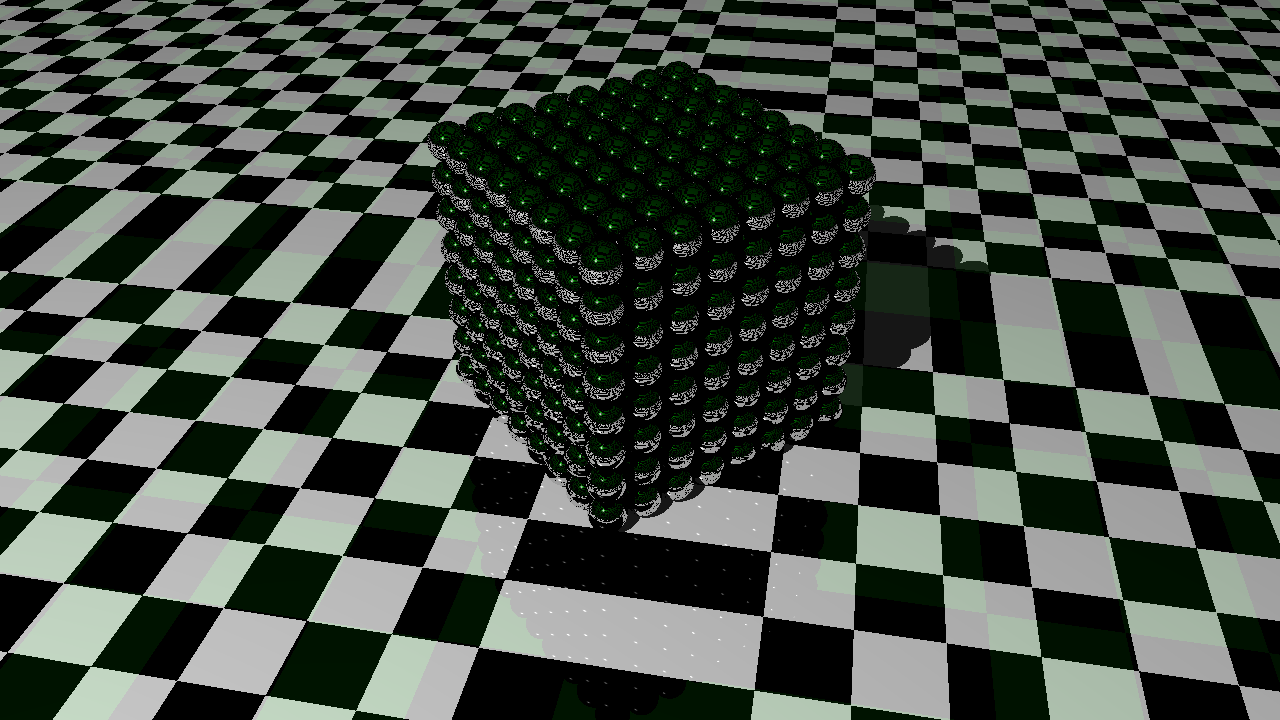
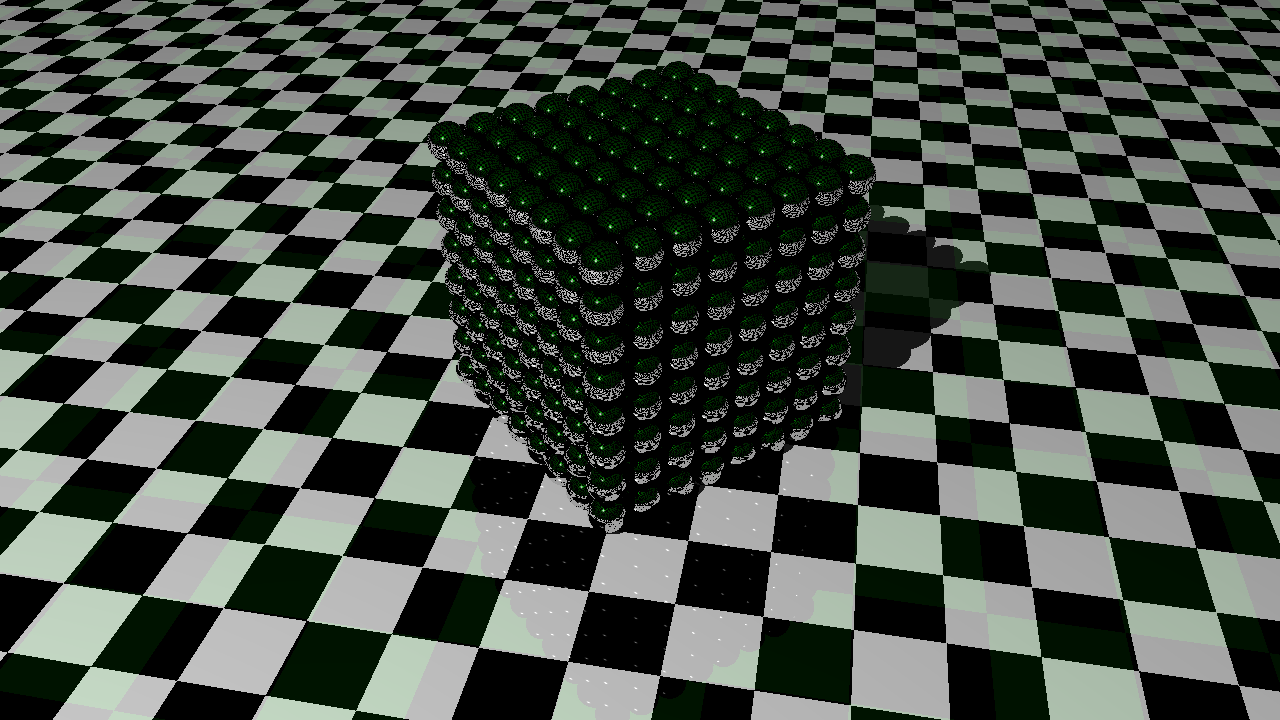
Fixes

diff --git a/ray_tracer/src/camera.rs b/ray_tracer/src/camera.rs
@@ -64,7 +64,7 @@ mod camera_tests {
 
     use crate::view_matrix::ViewMatrix;
 
-    use math::{color, degrees, point, vector};
+    use math::{assert_color, assert_point, assert_vector, color, degrees, point, vector};
 
     #[test]
     fn new_camera() {
@@ -87,7 +87,7 @@ mod camera_tests {
         let camera = Camera::new(Size::new(101, 201), degrees!(90));
         let ray = camera.ray_for_pixel((0, 0));
         assert_eq!(ray.origin, point!(0, 0, 0));
-        assert_eq!(ray.direction, vector!(0.3325932, 0.6651864, -0.66851234));
+        assert_vector!(ray.direction, vector!(0.3326, 0.6652, -0.6685));
     }
 
     #[test]
@@ -95,8 +95,8 @@ mod camera_tests {
         let mut camera = Camera::new(Size::new(101, 201), degrees!(90));
         camera.set_transform(Matrix4x4::rotation_y(degrees!(45)).pre_translation(0., -2., 5.));
         let ray = camera.ray_for_pixel((50, 100));
-        assert_eq!(ray.origin, point!(0, 2, -5.0000005));
-        assert_eq!(ray.direction, vector!(0.70710665, 0, -0.7071069));
+        assert_point!(ray.origin, point!(0, 2, -5));
+        assert_vector!(ray.direction, vector!(0.7071, 0, -0.7071));
     }
 
     #[test]
@@ -107,6 +107,6 @@ mod camera_tests {
             ViewMatrix::new_look_at(point!(0, 0, -5), point!(0, 0, 0), vector!(0, 1, 0)).into(),
         );
         let color = camera.color_at((5, 5), &world);
-        assert_eq!(color!(0.38065884, 0.47582352, 0.28549412), color);
+        assert_color!(color!(0.3807, 0.4758, 0.2855), color);
     }
 }

diff --git a/demo-lib/src/test_scenes/chapter7_scene.rs b/demo-lib/src/test_scenes/chapter7_scene.rs
@@ -114,11 +114,7 @@ fn smallest_yellow_sphere() -> Shape {
             .pre_rotation_x(degrees!(-30)),
     );
     let mut material = Material::default();
-    material.pattern = Pattern::Checker(
-        color!(1, 0.8, 0.1),
-        *WHITE,
-        Transform::identity(),
-    );
+    material.pattern = Pattern::Checker(color!(1, 0.8, 0.1), *WHITE, Transform::identity());
     material.diffuse = 0.7;
     material.specular = 0.3;
     sphere.material = material;

diff --git a/ray_tracer/src/lighting/refraction_lighting.rs b/ray_tracer/src/lighting/refraction_lighting.rs
@@ -129,8 +129,7 @@ mod refraction_lighting_tests {
         let pre_calculations =
             hit.to_pre_calculation(RayGeneration::new_ray_with_generation(ray, 1));
         assert_color!(
-            // Not quite what book has (0, 0.99888, 0.04725) but it is due to a smaller EPSILON
-            color!(0, 0.9988, 0.04725),
+            color!(0, 0.99888, 0.04725),
             world.refracted_color(&pre_calculations, refraction)
         );
     }

diff --git a/demo/src/main.rs b/demo/src/main.rs
@@ -10,7 +10,7 @@ fn main() {
     let size = Size::HD_720P;
     Chapter7Scene::render_scene(size);
     GlassSphereWithAir::render_scene(size);
-    // Cubes::render_scene(size);
-    // CubeOfSpheres::render_scene(size);
-    // Grid::render_scene(size);
+    Cubes::render_scene(size);
+    CubeOfSpheres::render_scene(size);
+    Grid::render_scene(size);
 }

diff --git a/ray_tracer/src/material/pattern/checker.rs b/ray_tracer/src/material/pattern/checker.rs
@@ -14,7 +14,7 @@ impl Pattern {
         let x = Self::convert(point.x);
         let y = Self::convert(point.y);
         let z = Self::convert(point.z);
-        if (x+y+z) % 2 == 0 { a } else { b }.clone()
+        if (x + y + z) % 2 == 0 { a } else { b }.clone()
     }
 
     /// This complex conversion is to avoid some rash effect when the values are
